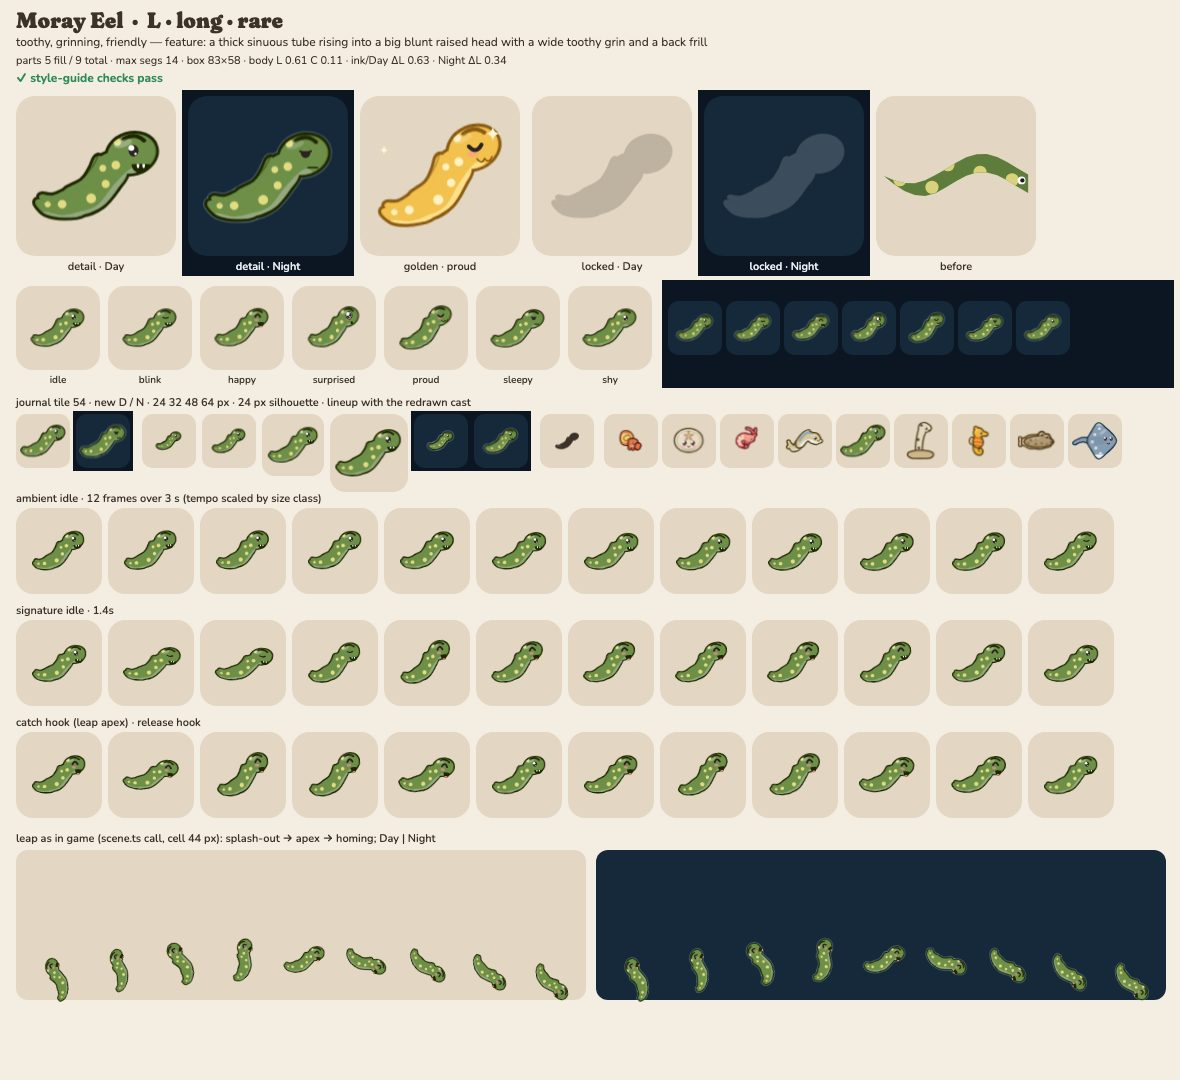
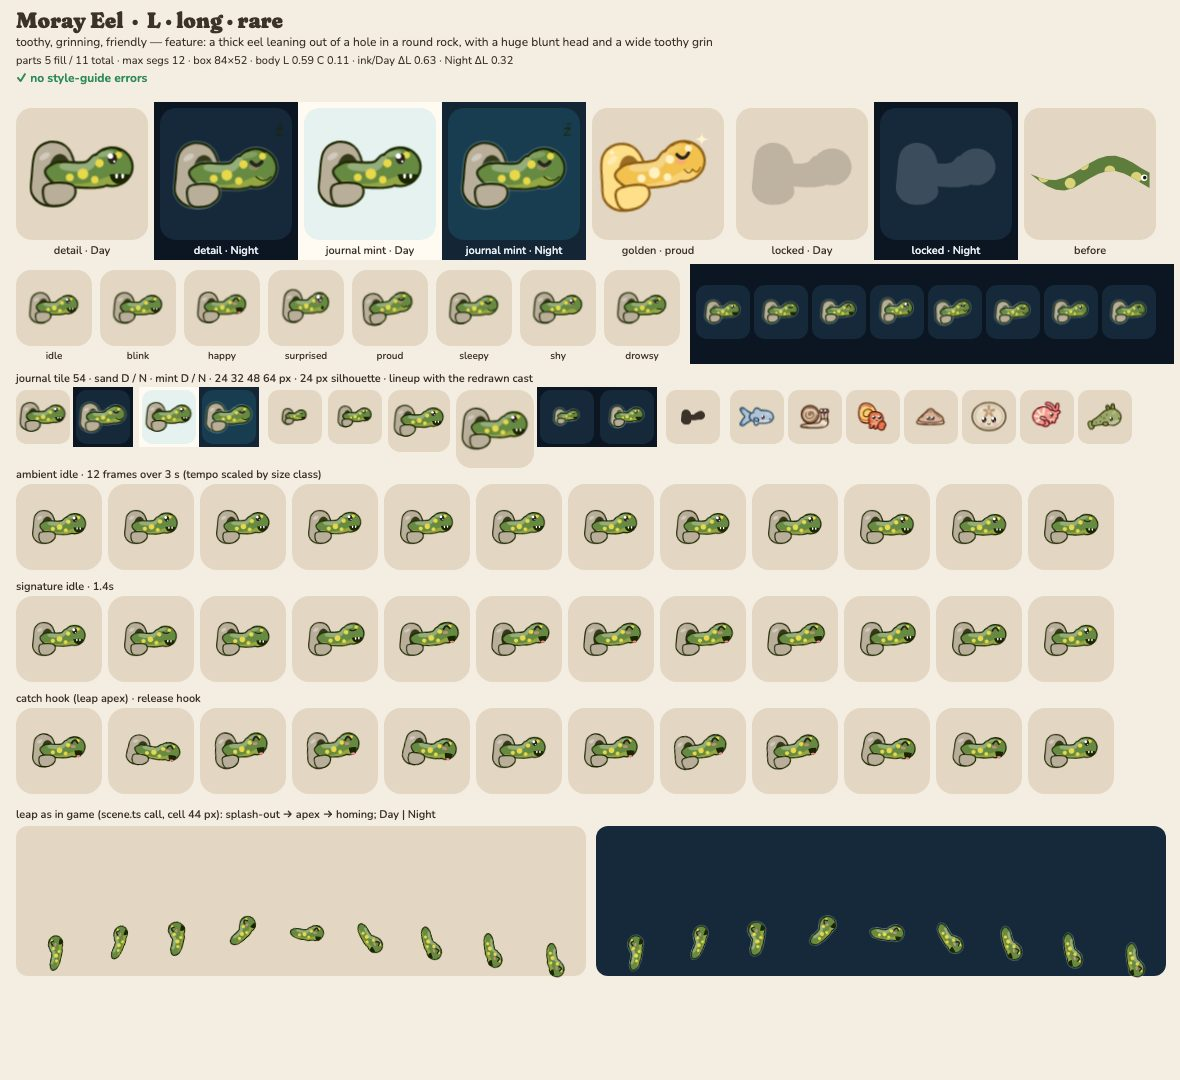
render: moray redo — grins out of a rock hole (ADR 0011)
CRITIQUE-1 C. Thick eel leaning out of a dark hole in a round rock (rock behind, its front lip in front hides the tail; both hidden in the leap). Huge blunt head 1.4x the body, wide grin with two white teeth (R8 exception), heavy grumpy brow, 5 yellow spots #E8D84A in 3 sizes, lighter frill band. Body lifted to #668A42 for the Night contrast check. Level (9 deg). Signature: leans further out, grin opens, wink. Lint clean.

diff --git a/src/render/art/species/moray.ts b/src/render/art/species/moray.ts
@@ -1,89 +1,108 @@
 /**
- * Moray Eel — LONG class (profile). Silhouette: a thick sinuous tube that rises like a "~" into a
- * big blunt head held high, with a pale frill fin riding the back (R10: the raised head and the wide
- * toothy grin). Personality: toothy, grinning, friendly — a grumpy brow over a sunny grin.
- * Signature: the grin opens wide, then a wink.
+ * Moray Eel — LONG class (profile, level). Silhouette: a thick eel leaning out of a dark hole in a
+ * round rock, with a huge blunt head (1.4× the body's thickness) and a wide toothy grin (R10: the
+ * head and the grin). A lighter frill band rides the back; five big yellow spots in three sizes.
+ * Personality: toothy, grinning, friendly — a grumpy brow over a sunny grin.
+ * Signature: leans further out of its hole, the grin opens wide, then a wink.
+ * Groups: rock (with the hole) behind, the eel, then the rock's front lip that hides its tail.
  */
-import { circle, defineArt, ellipse, join, tube } from '../kit.ts';
+import { blob, circle, defineArt, ellipse, join, tube } from '../kit.ts';
 
-const tail = tube([
-  [-12, 21, 7.8],
-  [-24, 24.5, 5.8],
-  [-34, 24, 4.2],
-  [-40, 20, 2.8],
+const rock = blob([
+  [-43, 6],
+  [-40, -14],
+  [-29, -22],
+  [-16, -19],
+  [-9, -6],
+  [-9, 16],
+  [-17, 28],
+  [-33, 29],
+  [-43, 20],
 ]);
+const lip = blob([
+  [-33, 15],
+  [-22, 12],
+  [-10, 14],
+  [-9, 22],
+  [-18, 29],
+  [-31, 28],
+]);
+// out of the hole, a small dip, then the head rises: the body narrows at the hole (a neck)
 const body = tube([
-  [-14, 21, 8],
-  [-2, 15, 9.4],
-  [6, 4, 10.4],
-  [11, -6, 11],
+  [-24, 3, 8],
+  [-12, 5, 9],
+  [0, 5, 10],
+  [9, 4, 11],
+  [15, 1, 11.5],
 ]);
-const head = ellipse(24, -14, 17, 13.5, -16);
-const frillBack = tube([
-  [-38, 16, 2],
-  [-30, 17.5, 2.8],
-  [-18, 13.5, 3.4],
+const head = ellipse(23.5, -2, 16.4, 15.5, -4);
+const frill = tube([
+  [-18, -2.5, 2.8],
+  [-8, -1.5, 3.4],
+  [3, -2, 3.4],
+  [10, -9, 2.6],
 ]);
-const frillFront = tube([
-  [-20, 13.5, 3.4],
-  [-8, 7, 3.6],
-  [-2, -2, 3.2],
-  [1, -10, 2.6],
-]);
-const spots = join(circle(-4, 17, 3.4), circle(6, 7, 2.8), circle(4, -4, 2.4), circle(14, -22, 2.6), circle(13, -6, 3));
+const spots = join(circle(-12, 7, 3.4), circle(-1, 4, 4.6), circle(9, 9, 3.2), circle(13, -5, 3.6), circle(29, -12, 3));
 
 export default defineArt({
   id: 'moray',
   klass: 'long',
   size: 'L',
-  feature: 'a thick sinuous tube rising into a big blunt raised head with a wide toothy grin and a back frill',
+  feature: 'a thick eel leaning out of a hole in a round rock, with a huge blunt head and a wide toothy grin',
   personality: ['toothy', 'grinning', 'friendly'],
-  palette: { body: '#6E8F48', accent: '#E3DB82' },
+  palette: { body: '#668A42', accent: '#E8D84A', belly: '#B9AE9A' },
   groups: [
     {
-      // one group: a separate tail layer would draw a seam across the tube
-      id: 'body',
-      pivot: [-14, 22],
+      id: 'rock',
+      pivot: [-26, 26],
       parts: [
-        { d: frillBack, role: 'body' },
-        { d: frillFront, role: 'body' },
-        { d: tail, role: 'body' },
-        { d: body, role: 'body' },
-        { d: head, role: 'body' },
-        {
-          d: tube([
-            [-36, 28, 2],
-            [-24, 31, 2.6],
-            [-12, 29, 2.8],
-            [2, 24, 3],
-            [14, 10, 3.4],
-            [26, 0, 4.6],
-          ]),
-          role: 'belly',
-          kind: 'pattern',
-        },
-        { d: join(spots, circle(-24, 21, 3), circle(-34, 21, 2.2)), role: 'accent', kind: 'pattern' },
-        { d: 'M-38 13C-28 11 -16 8 -8 1C-4 -3 -1 -8 1 -13', role: 'ink', kind: 'line', w: 1.3, alpha: 0.4 },
-        // the grumpy brow: a short ink ridge sloping down toward the snout
-        { d: 'M18.5 -24C23 -27 28 -27 32.5 -23', role: 'ink', kind: 'line', w: 2.8 },
+        { d: rock, role: 'belly' },
+        { d: ellipse(-20, 3, 9.5, 16), role: 'ink', kind: 'pattern', alpha: 0.85 },
+        { d: ellipse(-33, -11, 5, 2.6, -30), role: 'white', kind: 'pattern', alpha: 0.35 },
       ],
     },
+    {
+      id: 'body',
+      pivot: [-22, 4],
+      parts: [
+        { d: frill, role: 'body' },
+        { d: body, role: 'body' },
+        { d: head, role: 'body' },
+        { d: frill, role: 'white', kind: 'pattern', alpha: 0.3 },
+        {
+          d: tube([
+            [-24, 13, 3.4],
+            [-6, 16, 3.6],
+            [10, 14, 4],
+            [26, 11, 6],
+          ]),
+          role: 'accent',
+          kind: 'pattern',
+          alpha: 0.35,
+        },
+        { d: spots, role: 'accent', kind: 'pattern' },
+        // the grumpy brow: a short ink ridge sloping down toward the snout
+        { d: 'M16.5 -17C21 -20 26 -20 30.5 -16.5', role: 'ink', kind: 'line', w: 3.2 },
+      ],
+    },
+    { id: 'lip', pivot: [-22, 26], parts: [{ d: lip, role: 'belly' }] },
   ],
-  shine: ellipse(18, -21, 6.5, 2.6, -18),
+  shine: ellipse(18, -13, 7, 2.6, -10),
   face: {
-    eyes: [[25, -16]],
-    eye: 8,
-    zone: [8, -32, 32, 32],
-    mouth: { at: [30, -6], w: 10, shape: 'grin' },
+    eyes: [[23.5, -9]],
+    eye: 9,
+    zone: [7, -31, 34, 38],
+    mouth: { at: [29.5, 5], w: 13, shape: 'grin' },
   },
+  ground: true,
   deviations: {
-    R7: 'long class (R5): the eye sits in the big raised head (the front 30 %), not 34 % back along the S',
+    R7: 'long class (R5): the eye sits in the huge head (the front 30 %), not 34 % back along the body and rock',
     R8: "the moray's wide grin is the guide's named signature exception (R8: grin with two rounded teeth)",
   },
   idle: {
     ambient: [
-      { m: 'bob', amp: 1.8, period: 2.6 },
-      { m: 'sway', g: 'body', amp: 3, period: 2.8, phase: 0.3 },
+      { m: 'sway', g: 'body', amp: 3, period: 2.8 },
+      { m: 'breathe', g: 'body', amp: 0.015, period: 3.2 },
     ],
     signature: {
       dur: 1.4,
@@ -91,31 +110,32 @@ export default defineArt({
       tracks: [
         {
           g: 'body',
-          p: 'rot',
+          p: 'tx',
           k: [
             [0, 0],
-            [0.15, 5],
-            [0.35, -9],
-            [0.75, -9],
+            [0.15, -3],
+            [0.35, 5],
+            [0.75, 5],
             [1, 0],
           ],
         },
         {
-          p: 'sy',
+          g: 'body',
+          p: 'rot',
           k: [
-            [0, 1],
-            [0.15, 0.92],
-            [0.35, 1.08],
-            [0.5, 1],
-            [1, 1],
+            [0, 0],
+            [0.15, 3],
+            [0.35, -6],
+            [0.75, -6],
+            [1, 0],
           ],
         },
         {
-          p: 'sx',
+          g: 'body',
+          p: 's',
           k: [
             [0, 1],
-            [0.15, 1.06],
-            [0.35, 0.95],
+            [0.35, 1.05],
             [0.5, 1],
             [1, 1],
           ],
@@ -128,4 +148,5 @@ export default defineArt({
       ],
     },
   },
+  leap: { hide: ['rock', 'lip'] },
 });
